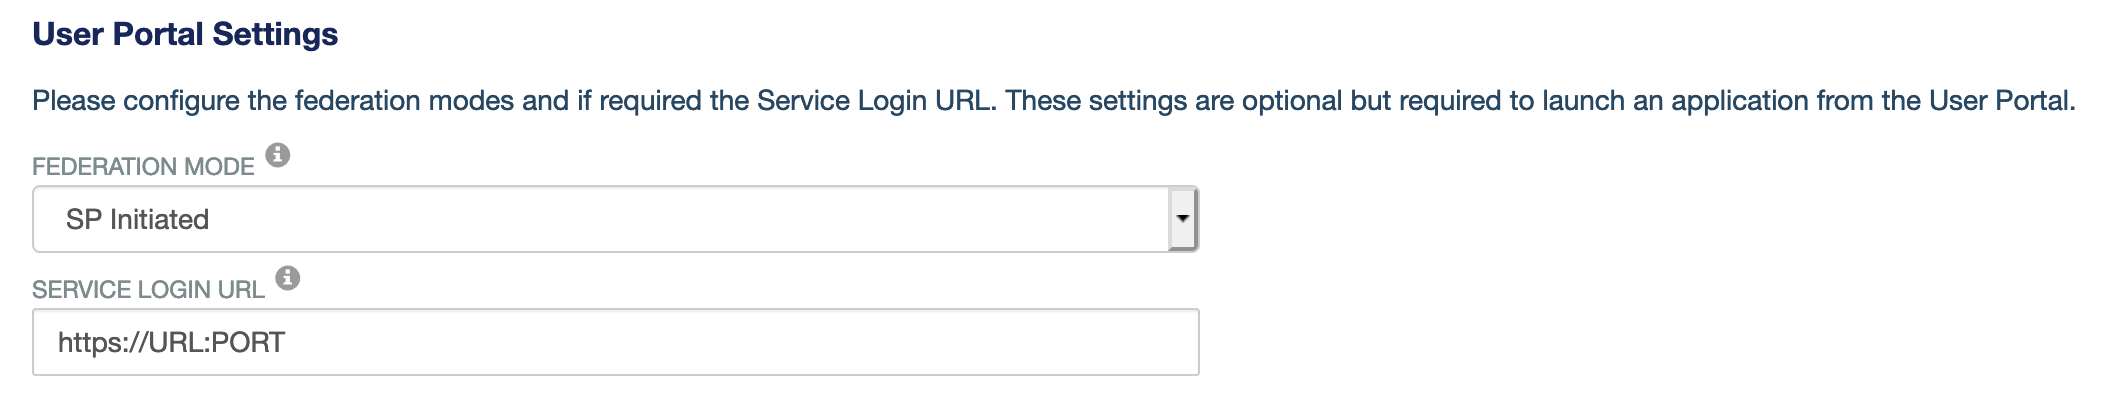
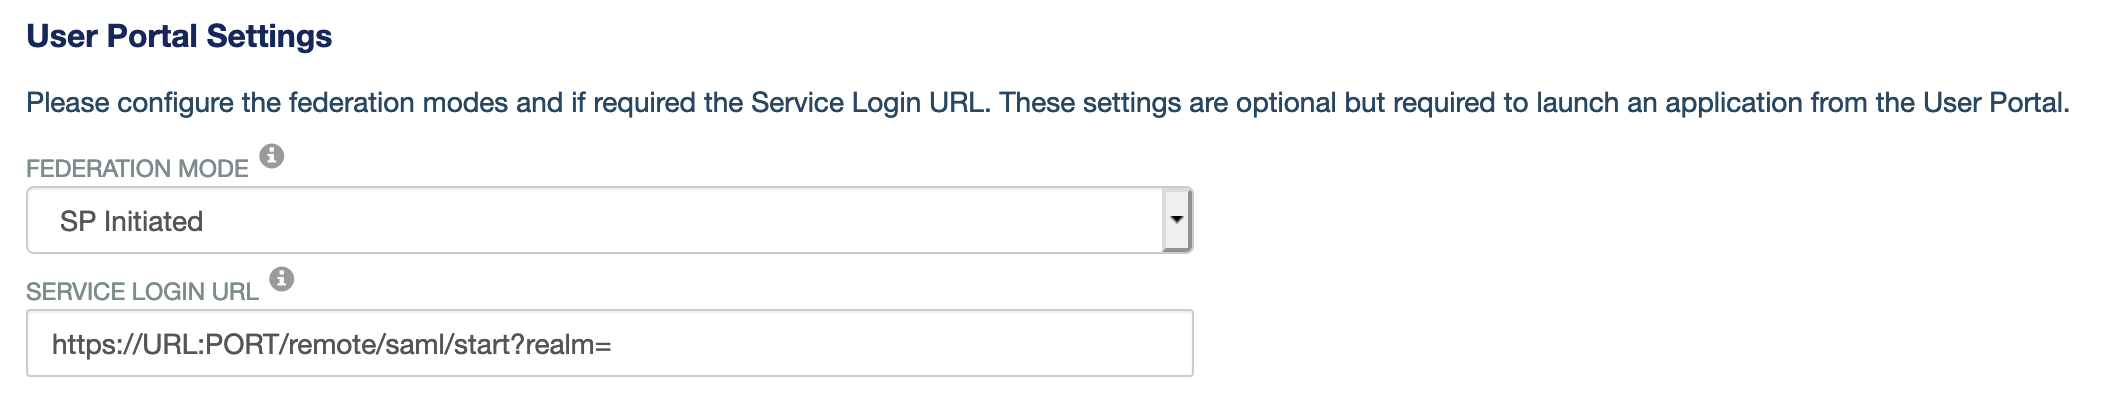
replace user portal

diff --git a/source/index.rst b/source/index.rst
@@ -152,7 +152,7 @@ In the STA Console, add FortiGate application by following these steps:
 
 11. Under **User Portal Settings**, change the *Federation Mode* to **SP Initiated** and enter the URL of your FortiGate SSL VPN portal and port number using the colon :code:`:` delimiter in *Service Login URL*
 
-.. important:: For SSO to work correctly when using the STA User Portal (IDP Initiated SSO) the URL in this field has to be in the following format: **https://<Fully_Qualified_Domain_Name>:<port number>/remote/saml/start?realm=**, make sure to add **/remote/saml/start?realm=**
+.. important:: For SSO to work correctly when using the STA User Portal (IDP Initiated SSO) the URL in this field has to be in the following format: **https://URL:PORT/remote/saml/start?realm=**, make sure to add **/remote/saml/start?realm=**
 
 .. thumbnail:: _images/user_portal.png
 
